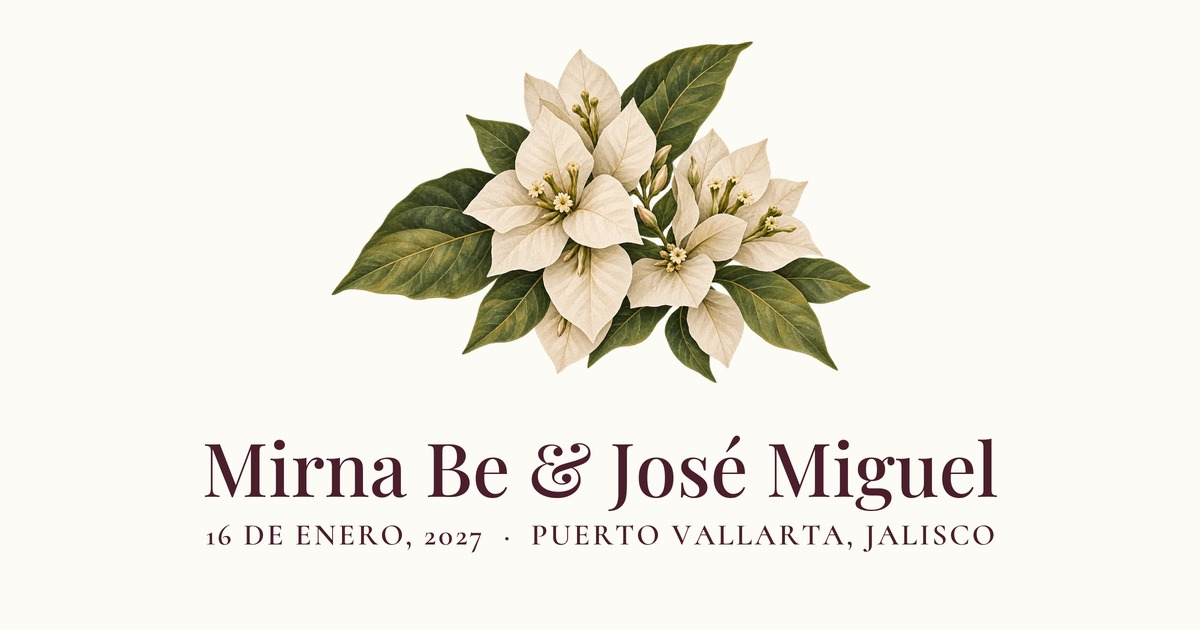
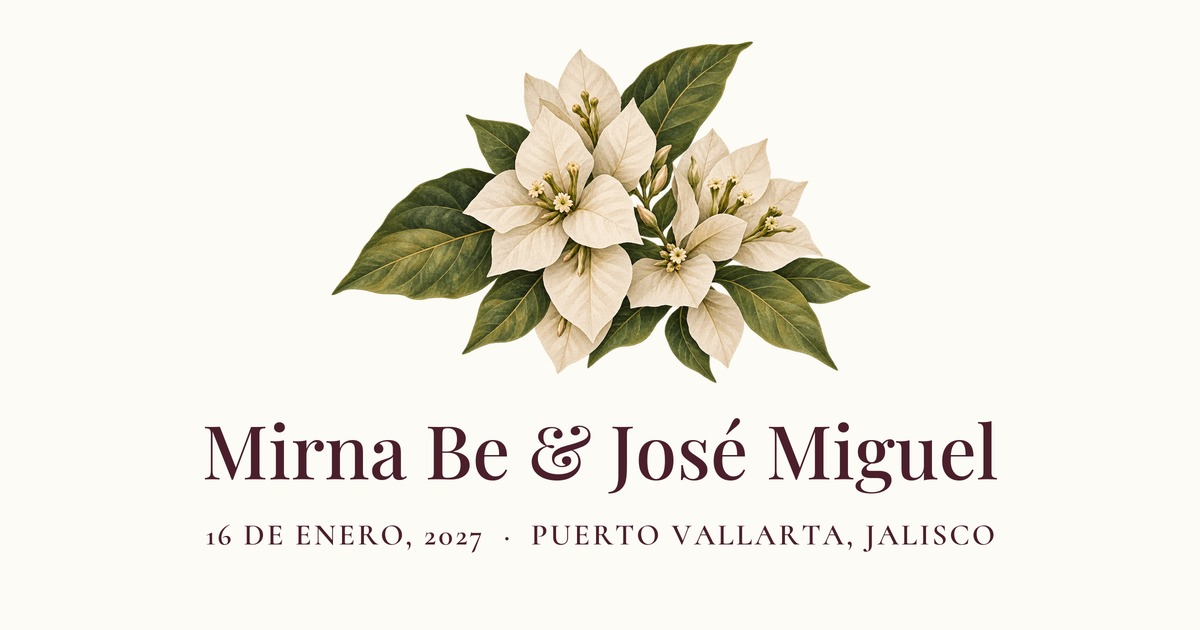
WhatsApp thumbnail: nudge the names up for more air before the date/place
Flowers and date/place stay put.

Changed region(s): [[0.1542, 0.6635, 0.8325, 0.8143]]

diff --git a/index.html b/index.html
@@ -14,7 +14,7 @@
 -->
 <meta property="og:title" content="Mirna Be & José Miguel — ¡Nos Casamos!" />
 <meta property="og:description" content="Acompáñanos a celebrar. 16 de enero, 2027 · Puerto Vallarta, Jalisco" />
-<meta property="og:image" content="assets/og/og-image.jpg?v=10" />
+<meta property="og:image" content="assets/og/og-image.jpg?v=11" />
 <meta property="og:type" content="website" />
 
 <link rel="preconnect" href="https://fonts.googleapis.com" />
